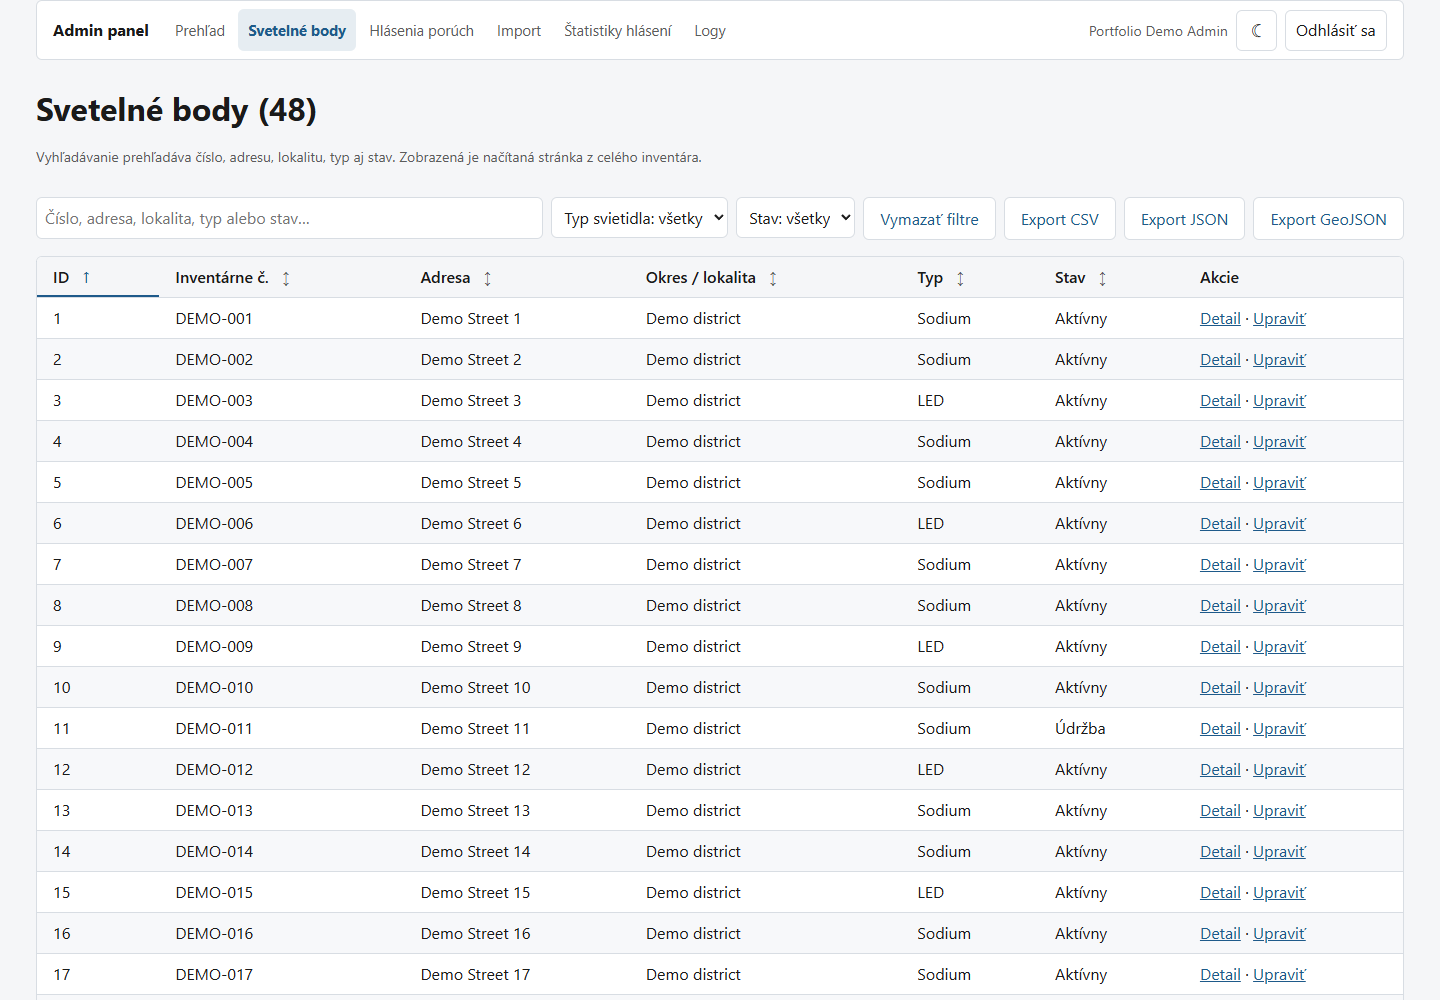
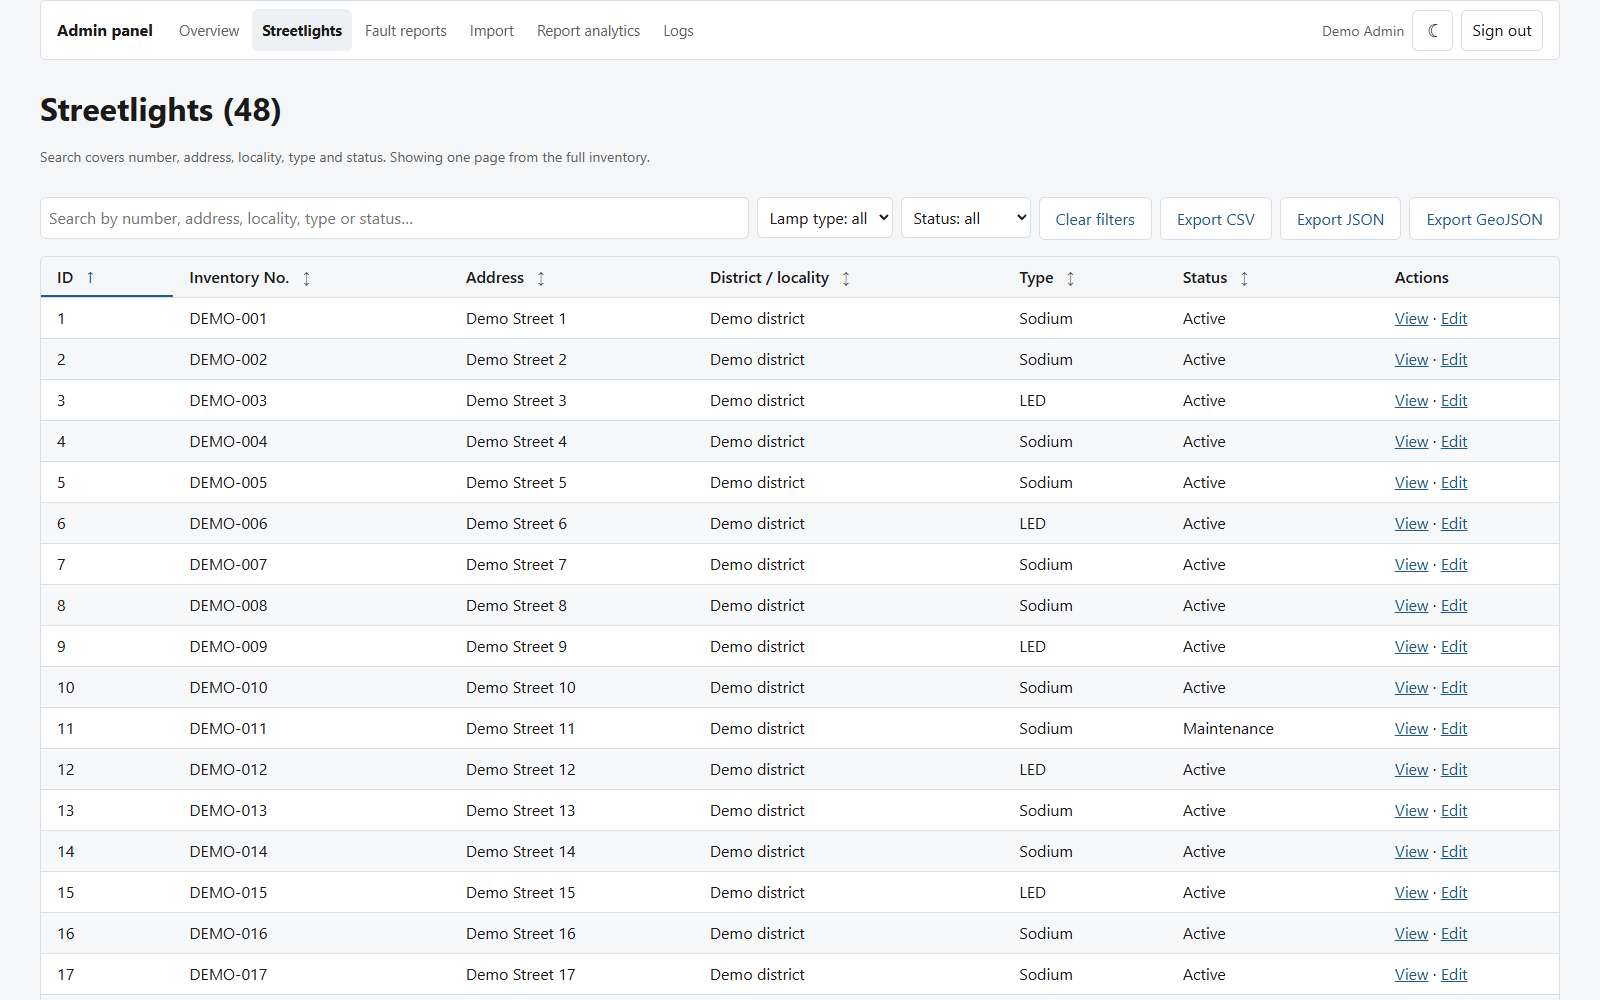
docs: refresh English project gallery

diff --git a/README.md b/README.md
@@ -6,11 +6,15 @@ A full-stack web application for finding public streetlights in Košice and prep
 
 ## Screenshots
 
-These are genuine browser captures from a disposable local Docker stack. The map used OpenStreetMap development tiles and an emulated Košice browser location; the admin table contains 48 generated demo records. No owner inventory, personal data, Resend, Geoapify, CARTO, or AUSEMIO request was used for these captures.
+These are browser captures from a disposable local Docker stack. The map used OpenStreetMap development tiles and synthetic inventory; the admin table contains 48 generated demo records. The form captures show synthetic placeholder contact details and a browser-local sample attachment; no report was submitted. No owner inventory or personal data was used, and Resend, Geoapify, CARTO, and AUSEMIO were not called. The public app uses its built-in English locale. Admin labels in the two admin captures were translated in-browser for presentation; the admin app itself currently presents Slovak labels.
 
-| Public map | Admin inventory |
+| Public map | Report form — fault details |
 | --- | --- |
-| ![Public map with synthetic inventory markers](docs/images/public-map-demo.png) | ![Admin inventory table with synthetic records](docs/images/admin-inventory-demo.png) |
+| ![English public map with synthetic streetlight markers](docs/images/public-map-demo.png) | ![English report form with synthetic Košice location and fault details](docs/images/public-report-details-demo.png) |
+| **Report form — contact and attachment** | **Admin dashboard — English presentation translation** |
+| ![English report form contact step with a sample attachment](docs/images/public-report-contact-demo.png) | ![Admin dashboard with synthetic inventory, shown with English presentation labels](docs/images/admin-dashboard-demo.png) |
+| **Admin inventory — English presentation translation** | |
+| ![Admin inventory table with 48 synthetic records, shown with English presentation labels](docs/images/admin-inventory-demo.png) | |
 
 ## What is implemented
 

diff --git a/docs/portfolio/demo-guide.md b/docs/portfolio/demo-guide.md
@@ -59,4 +59,4 @@ This stops containers in the named demo project and leaves its uniquely named de
 
 ## Screenshots in this repository
 
-The screenshots in the README were captured from a similar loopback-only disposable Compose run. The inventory image contains generated `DEMO-*` records; the map image uses the real app with OpenStreetMap development tiles and a synthetic browser location in Košice. The screenshots are presentation evidence only, not a live-provider or production-runtime test.
+The README screenshots were captured from a loopback-only disposable Compose run. The inventory image contains generated `DEMO-*` records; the map uses OpenStreetMap development tiles; and the form captures contain only synthetic text, placeholder contact details, and a browser-local sample attachment. No form was submitted. The public map and report form use the app's English locale. Admin screenshot labels were translated in-browser for presentation only; the admin app itself currently uses Slovak labels. These images are presentation captures, not live-provider or production-runtime evidence.
